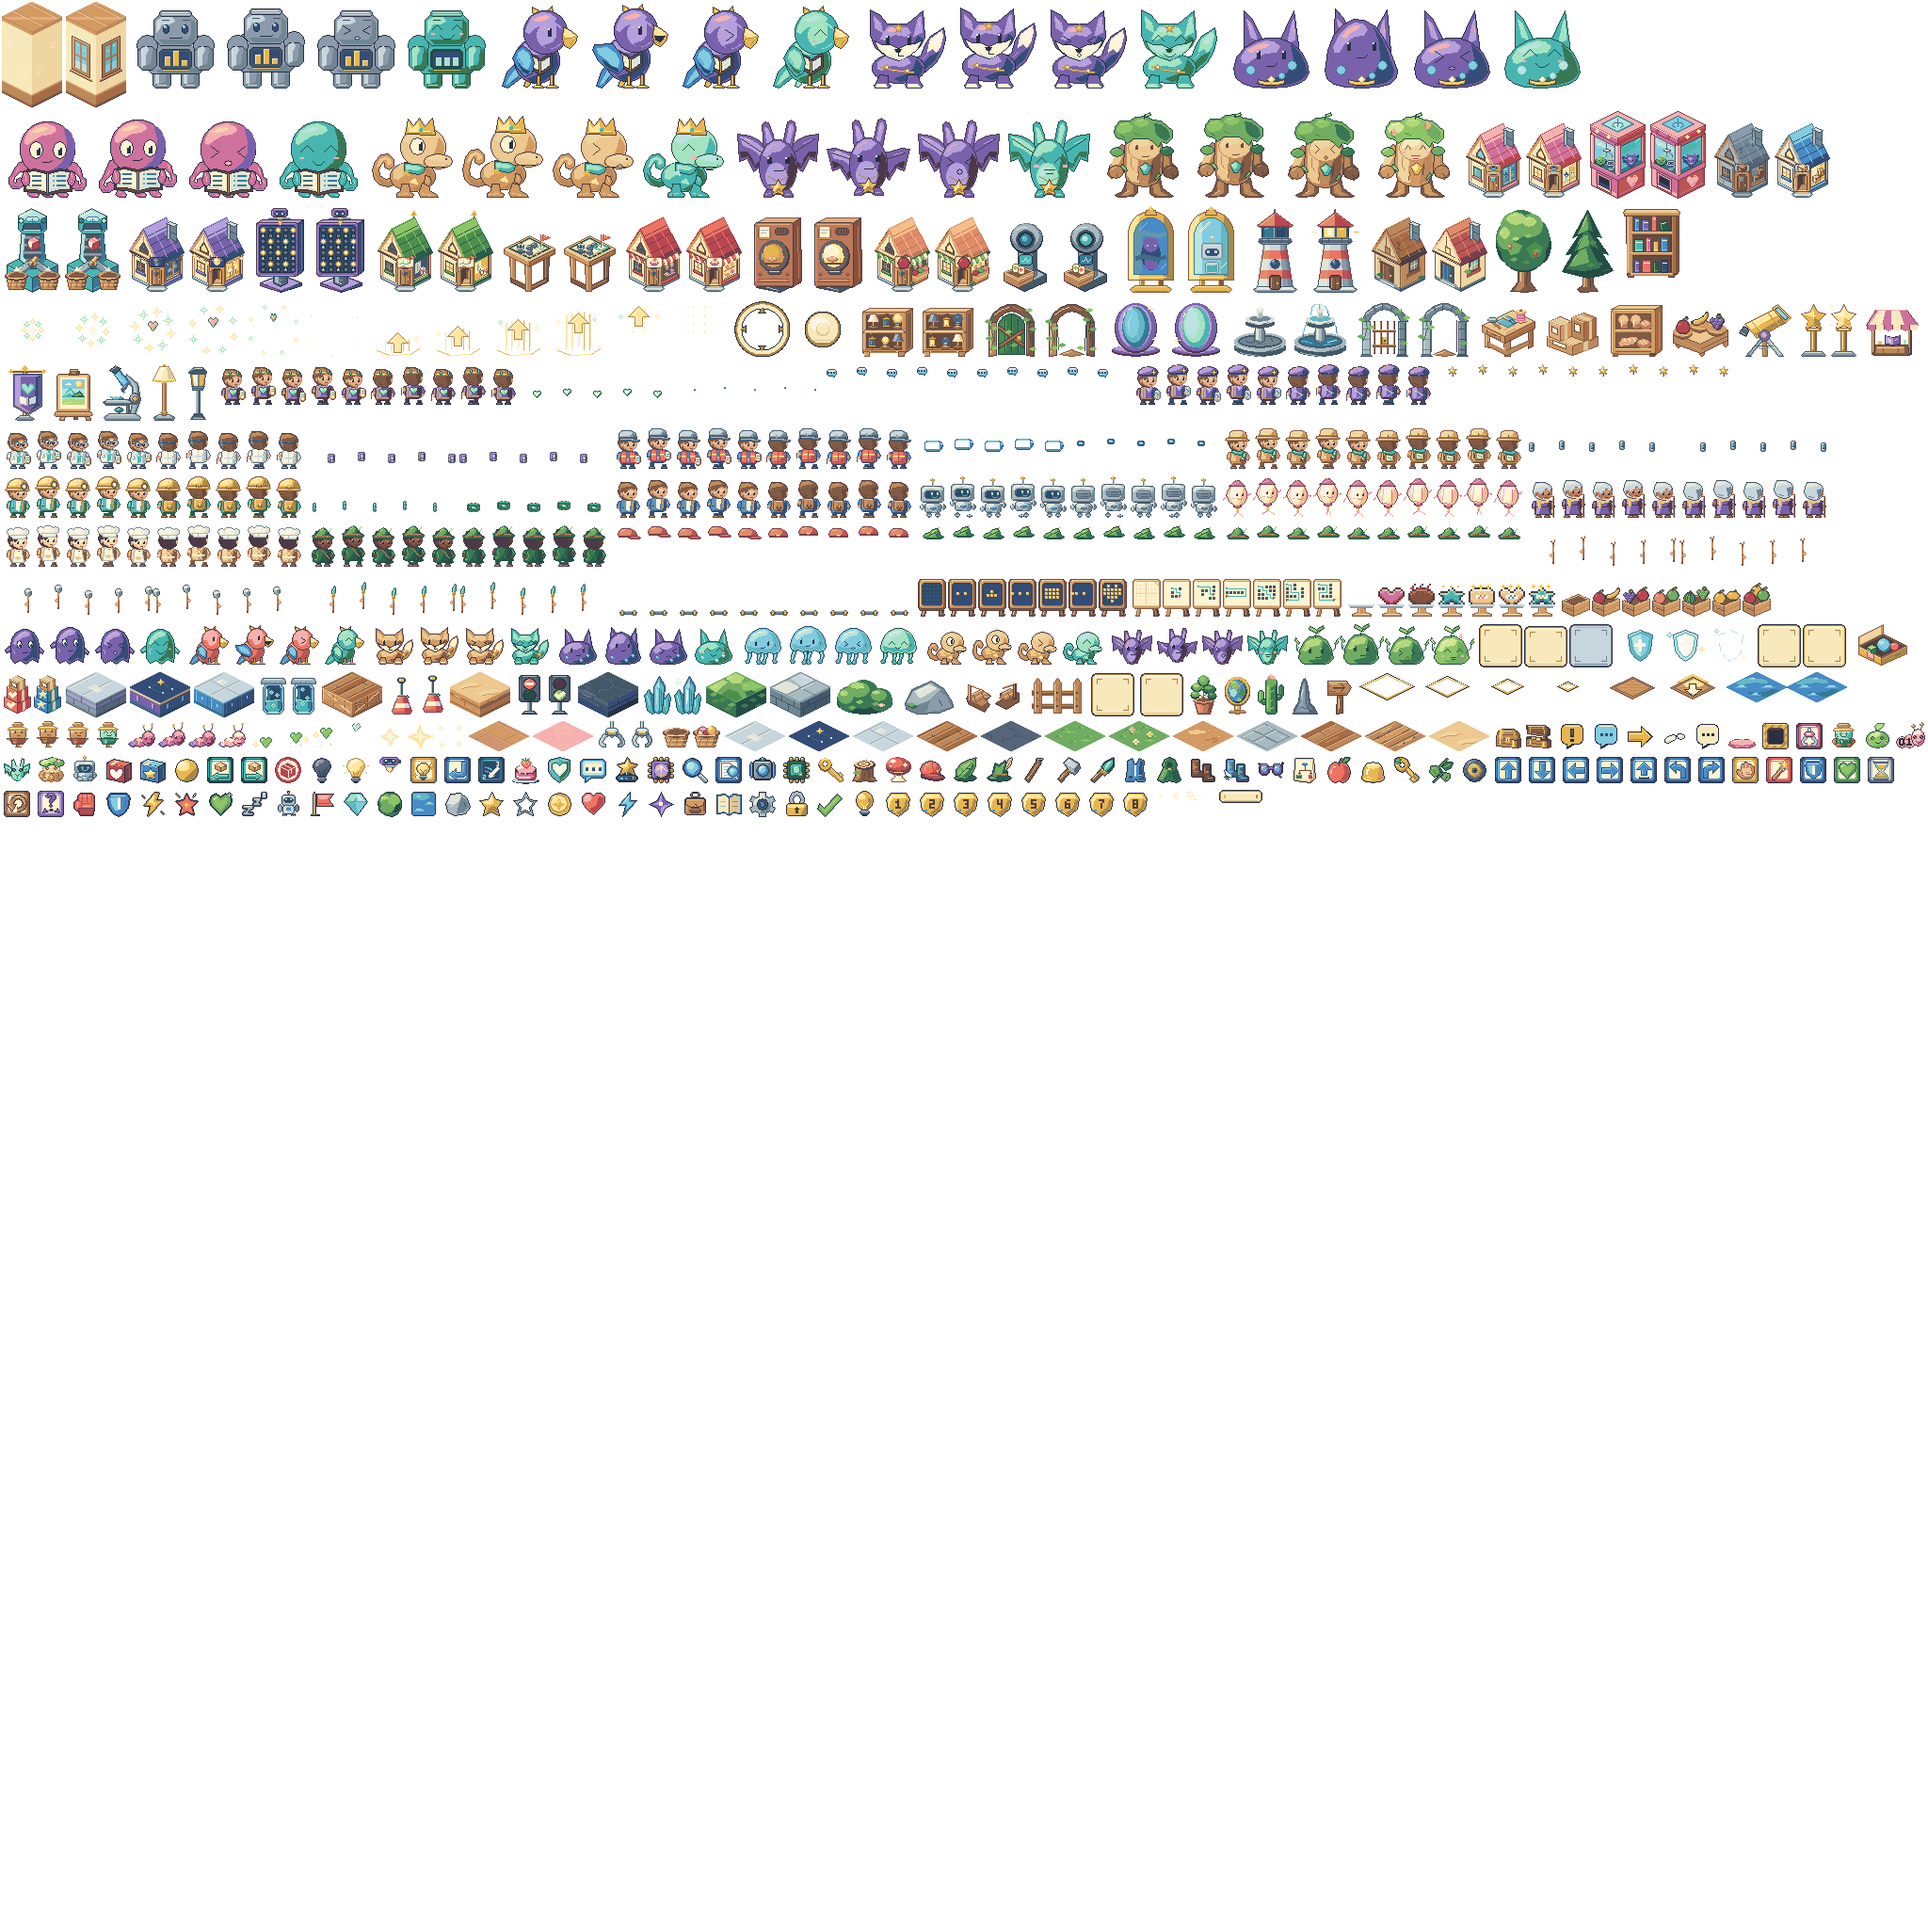
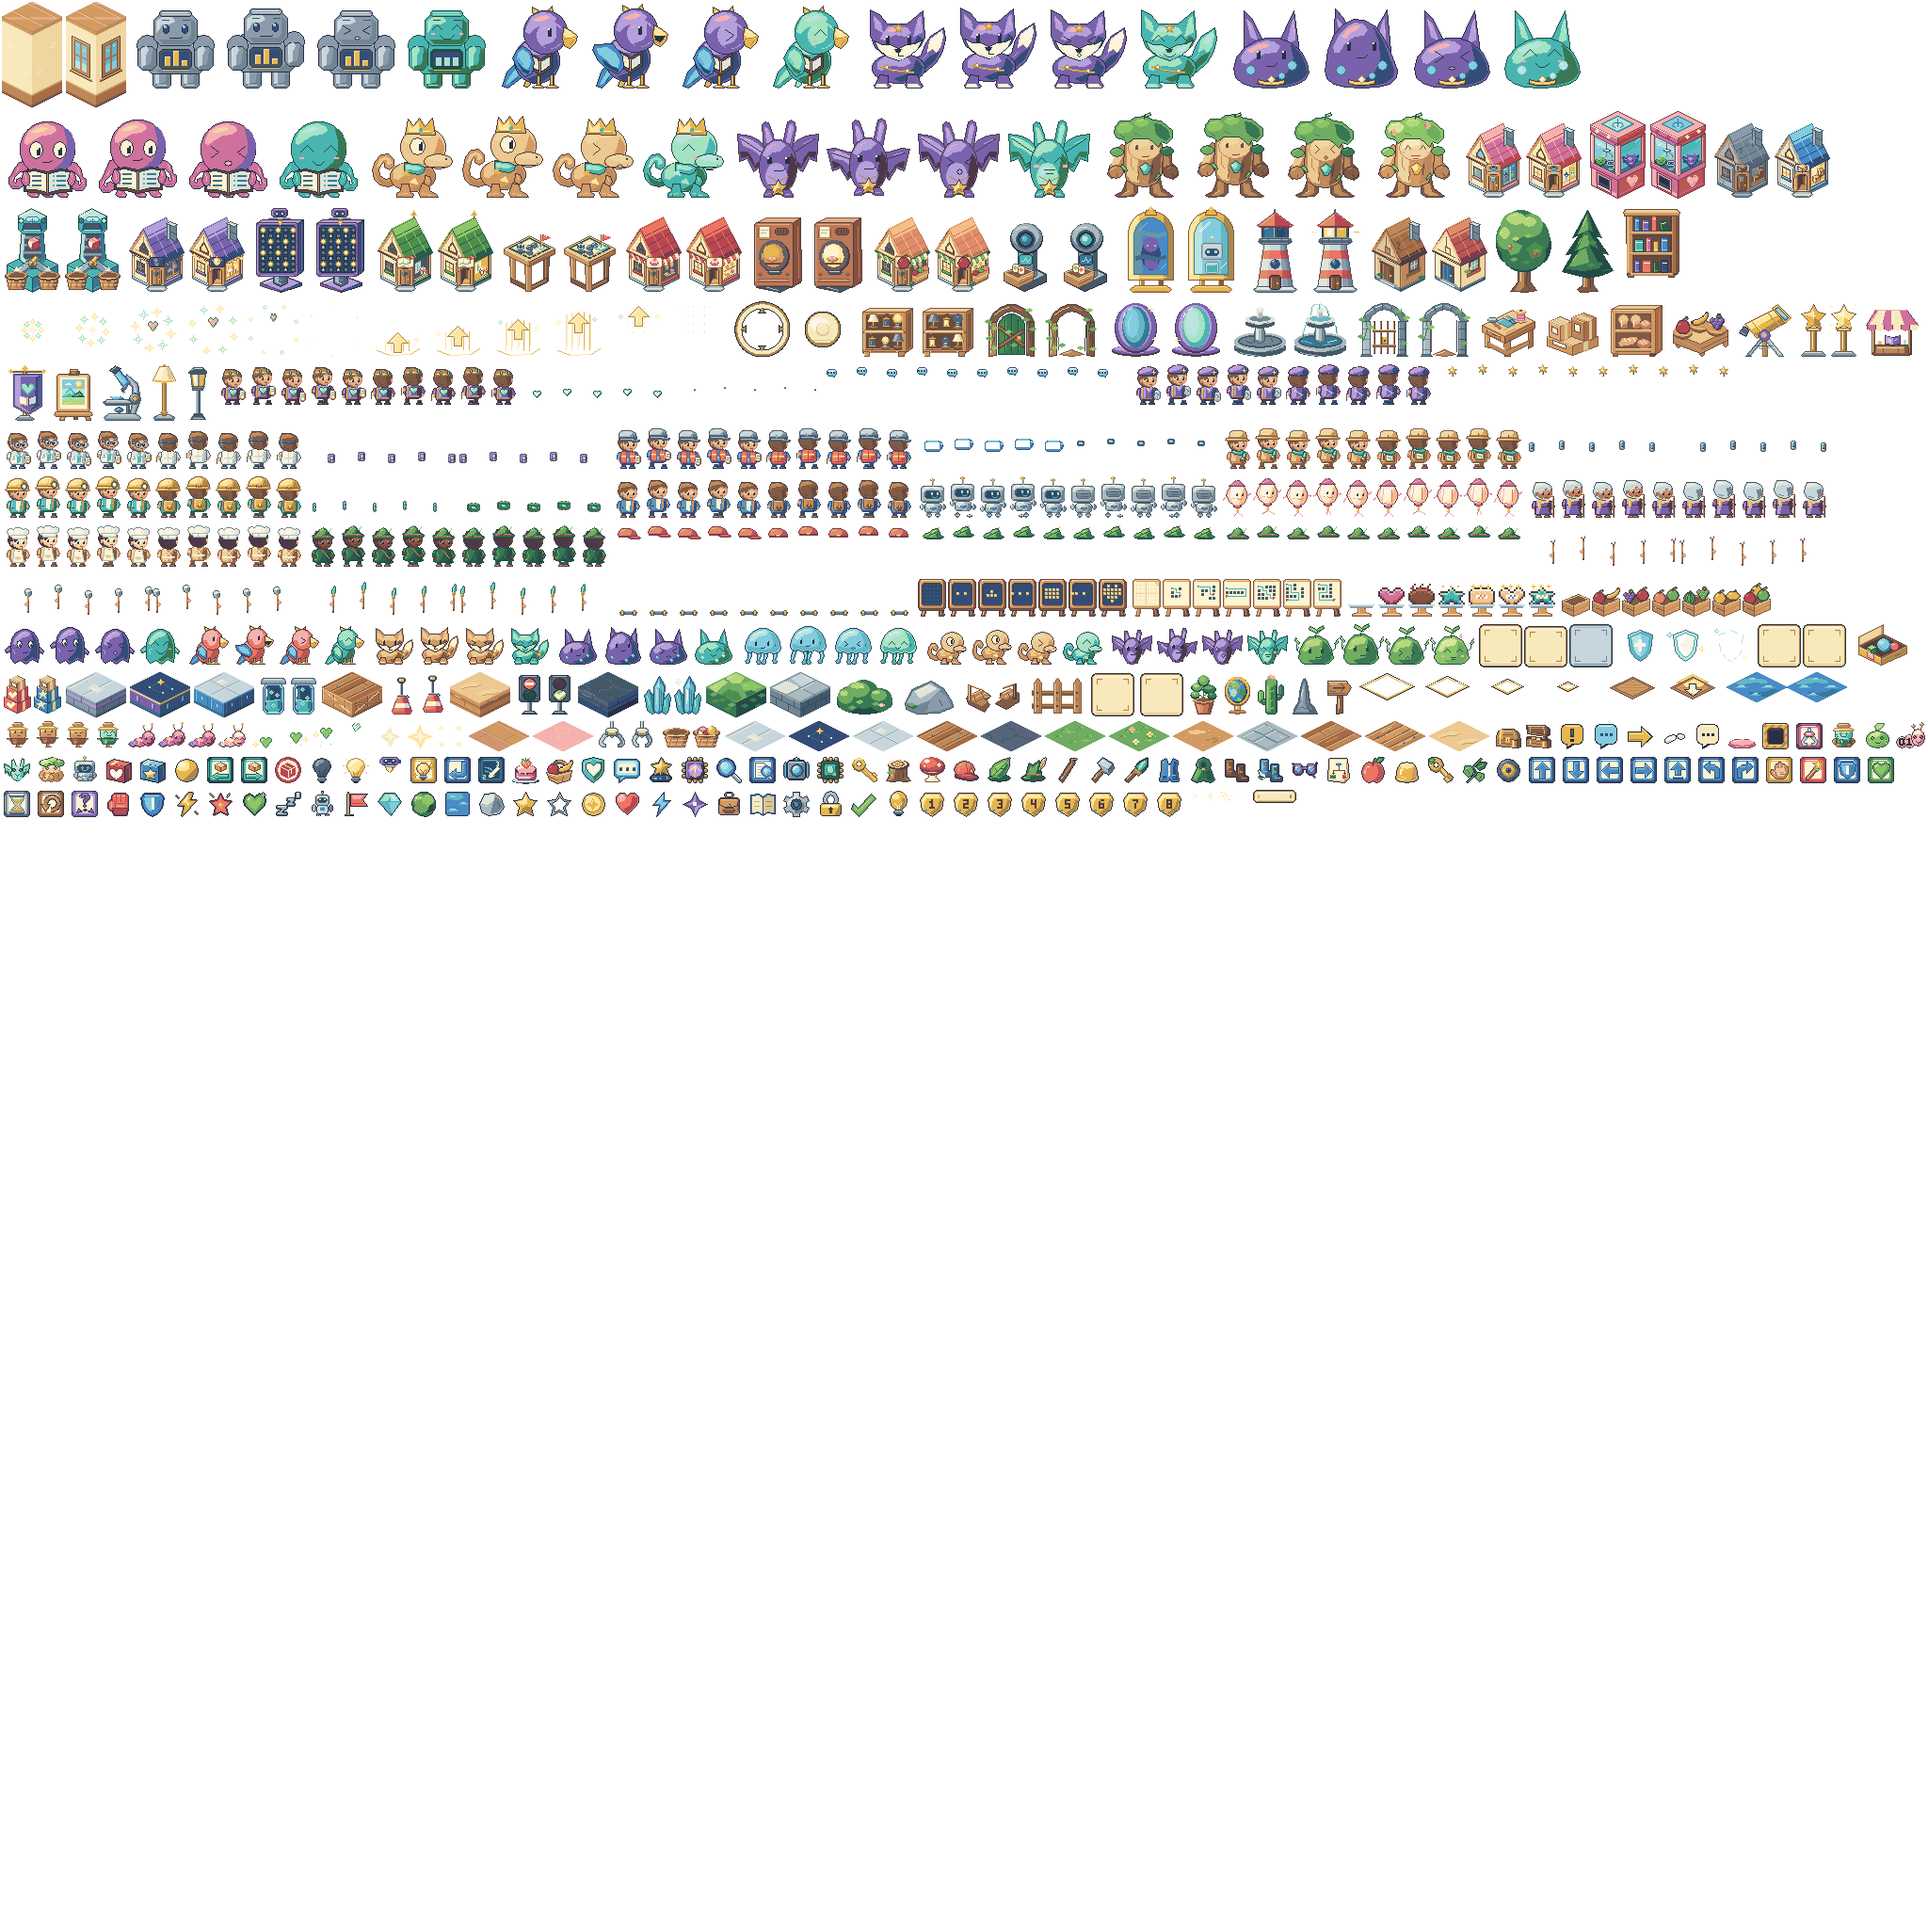
C20-2: 과일 바구니 놀이 아이콘

Changed region(s): [[0.0, 0.375, 0.8125, 0.4375], [0.875, 0.375, 1.0, 0.4062]]

diff --git a/docs/tasks/codex-20-progress.md b/docs/tasks/codex-20-progress.md
@@ -12,3 +12,7 @@
 | prop-fruit-stand | 없음 | 없음 |
 
 그림 생성·테스트 406개·빌드 통과. 아틀라스 2048×2048 한 장, 생성한 241키 모두 2배예요. 팔레트 64색 유지. 다음 단계는 놀이 아이콘, 그다음은 기존 물결 카드예요. Claude는 4판의 초록 과일 둘을 줄무늬와 송이 모양으로 구분할 수 있는지 봐 주세요.
+
+## 2단계
+
+icon-fruit를 완성했어요. 나무 바구니 뒤쪽 손잡이와 바나나 사이에 공간을 남기고 사과와 바나나의 방향을 달리했어요. 실제 판 목록에서 48px, 로봇 생각에서 32px로 로드됐어요. assets-preview/compare-20-2.png에서 어두운 창과 크림색 바탕 두 크기를 확인했어요. 그림 생성·406개 테스트·빌드 통과. 2048×2048 아틀라스의 242키 모두 2배예요. 남은 것은 물결 카드 수정이에요.
